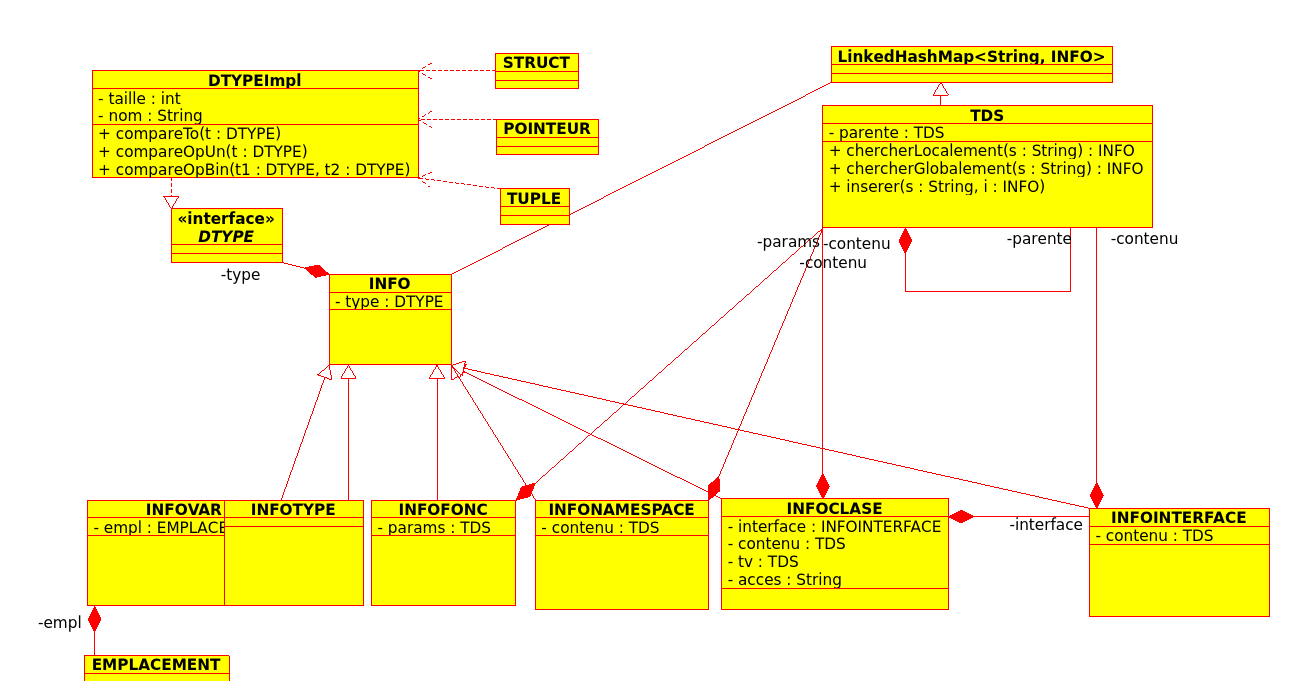
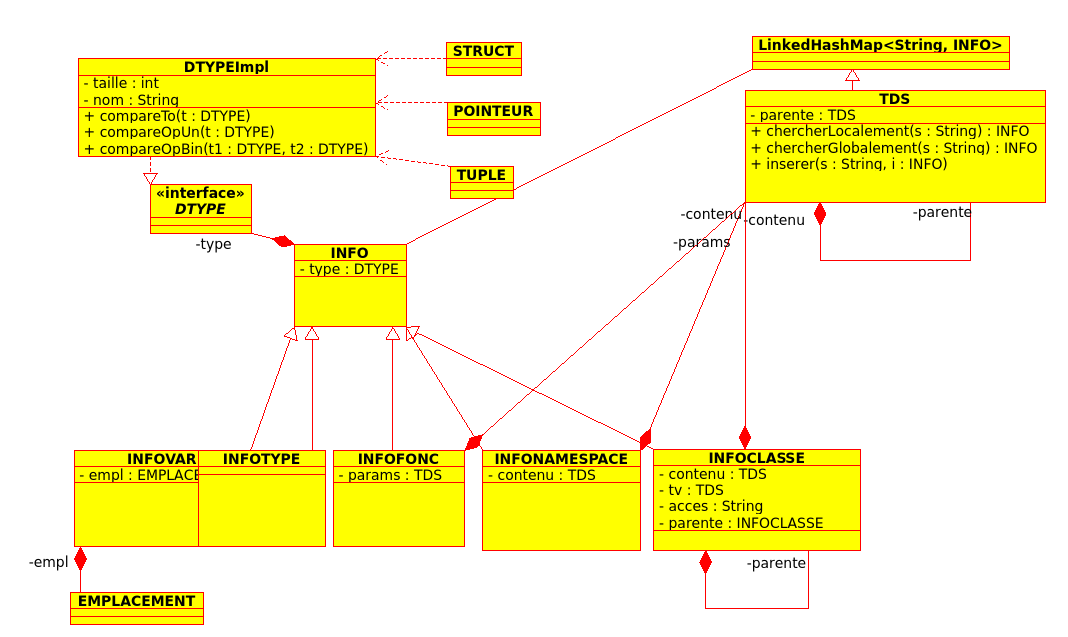
gestion classe + UML

diff --git a/MCS-etud-1516/src/mcs/tds/INFOCLASSE.java b/MCS-etud-1516/src/mcs/tds/INFOCLASSE.java
@@ -5,35 +5,30 @@ public class INFOCLASSE extends INFO {
 	
 	protected String acces;
 
-	protected INFOINTERFACE einterface;
-	
-	protected INFOCLASSE esuper;
+	protected INFOCLASSE parente;
 	
 	protected TDS tdsContenu;
 	
 	protected TDS tv;
 	
-	public INFOCLASSE(DTYPE t, String acces, TDS tdsContenu, INFOINTERFACE einterface, INFOCLASSE esuper){
+	public INFOCLASSE(DTYPE t, String acces, TDS tdsContenu, INFOCLASSE parente){
 		super(t);
 		this.acces = acces;
 		this.tdsContenu = tdsContenu;
-		this.einterface = einterface;
-		this.esuper = esuper;
+		this.parente = parente;
 	}
 	
 	public String getAcces() { return acces; }
 	
 	public TDS getContenu() { return tdsContenu; }
 	
-	public INFOINTERFACE getInterface() { return einterface; }
-	
-	public INFOCLASSE getSuper() { return esuper; }
+	public INFOCLASSE getParente() { return parente; }
 	
 	public TDS getTV() { return tv; }
 	
 	public String toString() {
 		return "INFOCLASSE : contenu => " + tdsContenu+
-				"\n interface => " + einterface;
+				"\n parente => " + parente;
 	}	
 	
 }

diff --git a/MCS-etud-1516/src/mcs/type/CHAMPCLASSE.java b/MCS-etud-1516/src/mcs/type/CHAMPCLASSE.java
@@ -1,0 +1,17 @@
+package mcs.type;
+
+import mcs.tds.INFOFONC;
+
+public class CHAMPCLASSE extends CHAMP {
+	
+	private String acces;
+	
+	private INFOFONC infofonc;
+
+	public CHAMPCLASSE(String nom, DTYPE type, int dep, String acces ,INFOFONC infofonc) {
+		super(nom, type, dep);
+		this.acces = acces;
+		this.infofonc = infofonc;
+	}
+
+}

diff --git a/MCS-etud-1516/src/mcs/type/CHAMP.java b/MCS-etud-1516/src/mcs/type/CHAMP.java
@@ -1,6 +1,6 @@
 package mcs.type;
 
-public class CHAMP {
+public abstract class CHAMP {
 	private String nom;
 	private int dep;
 	private DTYPE type;
